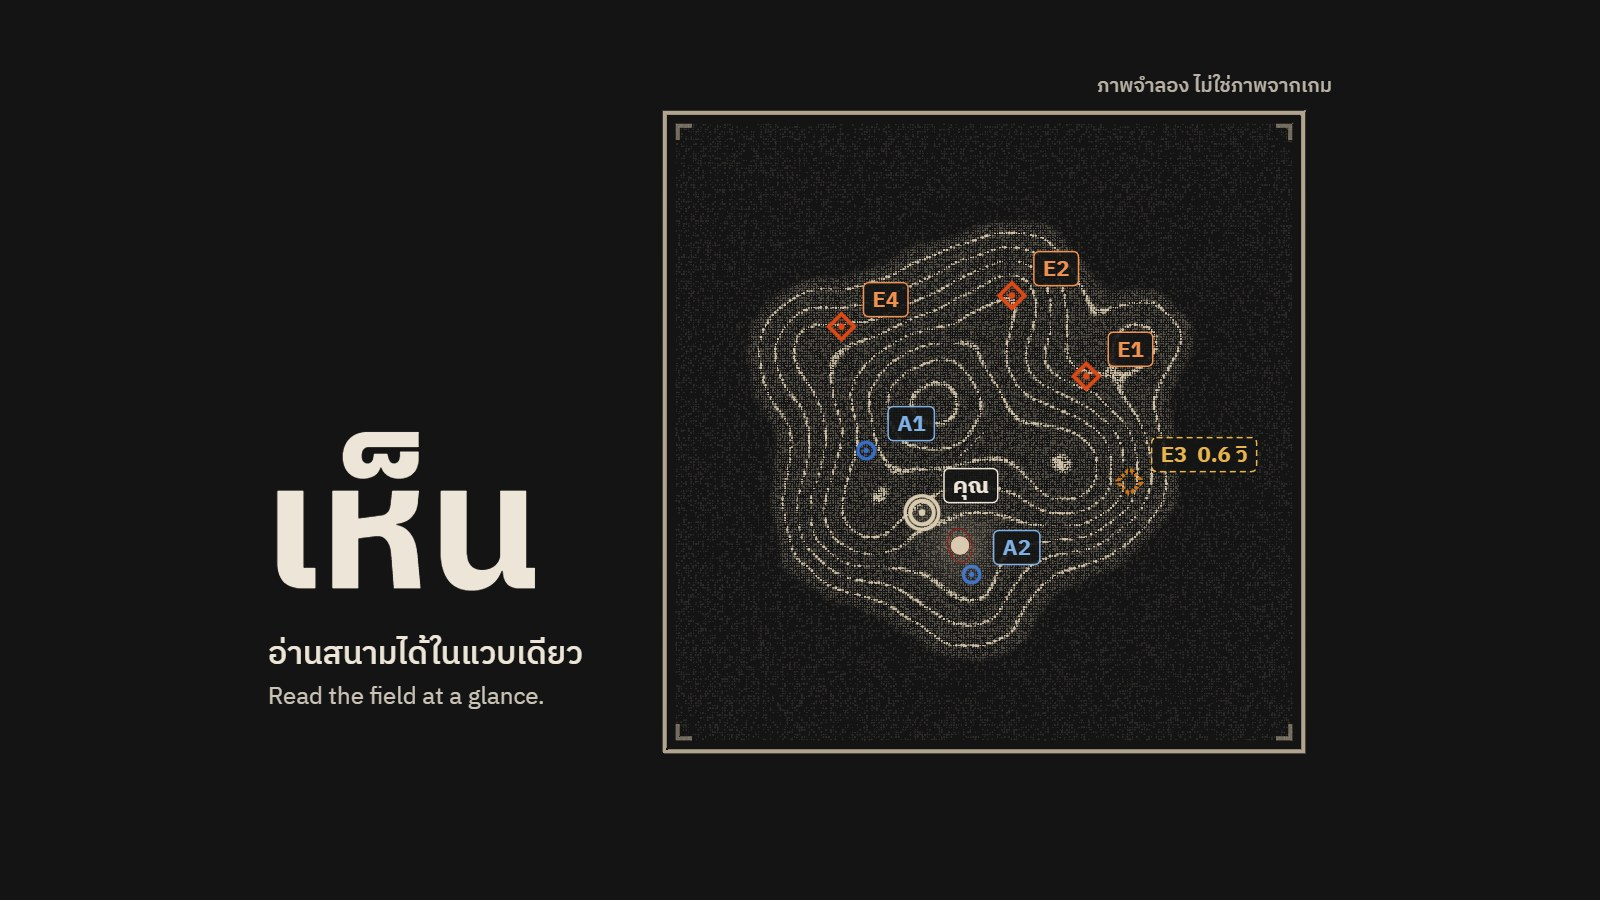
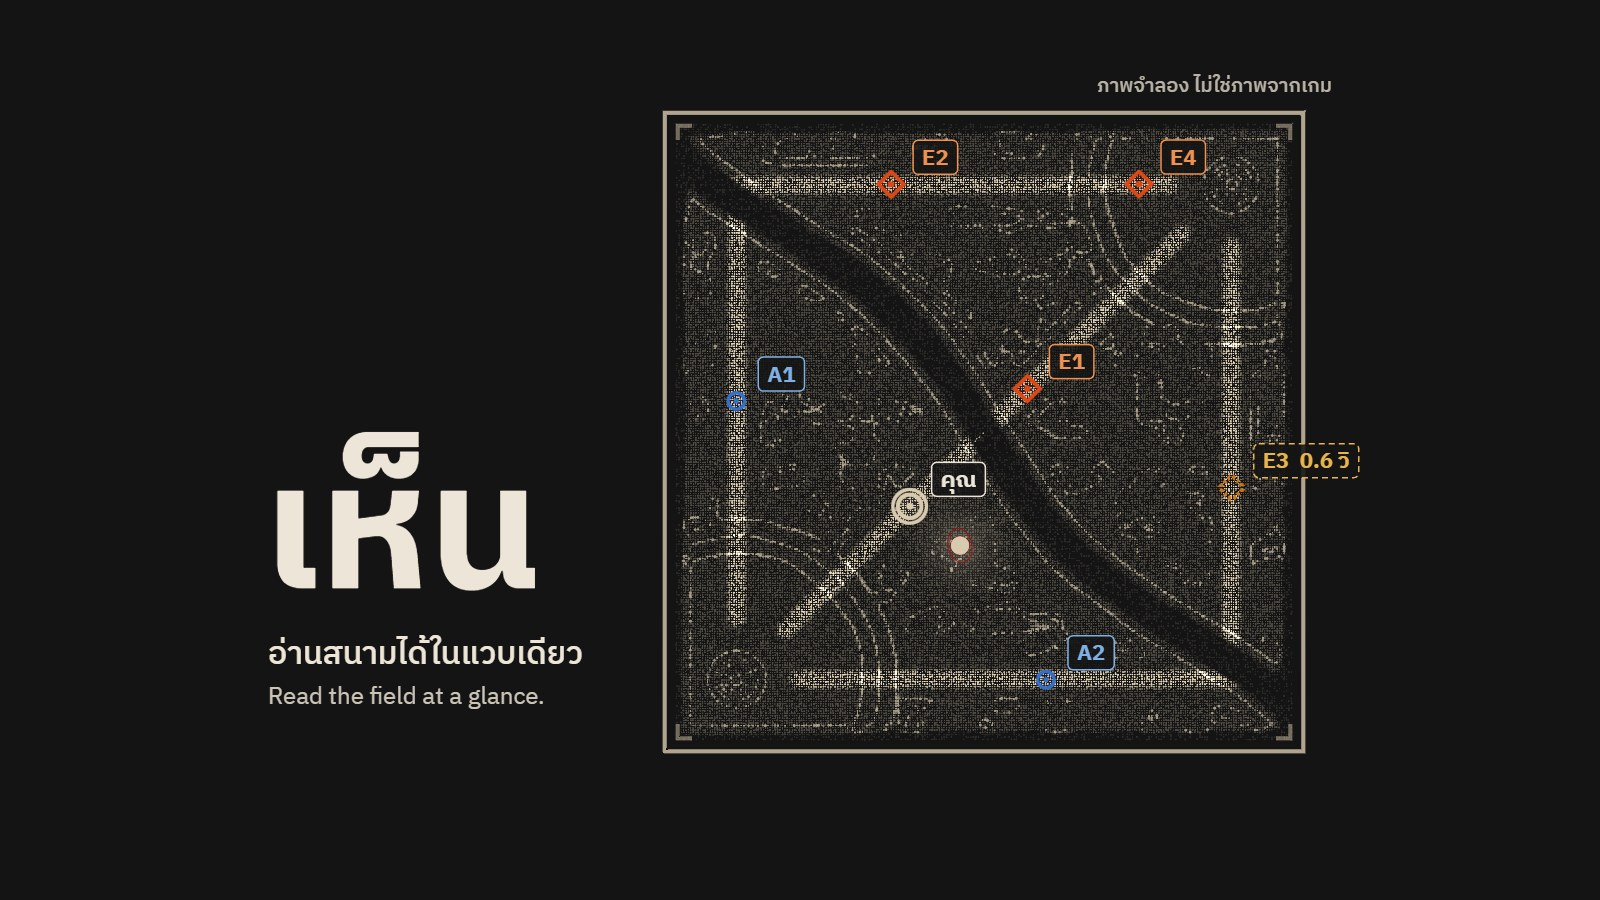
feat(website): battlefield hologram and an In the app features section (#81)
* feat(website): battlefield hologram and an In the app features section

Owner request 2026-11-23. The hero field is now a procedural MOBA-style
battlefield (corner bases on high ground, three lanes, diagonal river, jungle)
drawn in code with no game asset. New section lists the app's features by match
phase (before, during, after). The rendered film must be re-rendered.

* chore(website): re-render the film poster for the battlefield map

---------

Changed region(s): [[0.4062, 0.1244, 0.8438, 0.8089]]

diff --git a/apps/website/js/stage.js b/apps/website/js/stage.js
@@ -1,42 +1,57 @@
 // Kohbor website — the stage.
 // One continuous 3D shot shared by the page (scroll-driven) and the film (time-driven).
 // Deterministic: every frame is a pure function of the params handed to render().
-// Sample geometry only. Nothing here is game data, a game map or a game asset.
+// The field is an original, procedural MOBA-style battlefield (two corner bases on high ground,
+// three lanes, a diagonal river, jungle between the lanes), drawn from code only: no game image,
+// map file or asset is used, and positions are not measured from any game.
 import * as THREE from '../vendor/three.module.min.js';
 
 export const R = 5;          // half-size of the map square in world units
 export const SEA = 0.15;     // height threshold: above = land
 
-// The island is a sum of Gaussian hills so the same height is cheap in GLSL and in JS.
-// [centre x, centre z, amplitude, sigma] in grid space (-1..1).
-export const HILLS = [
-  [-0.18, -0.10, 1.00, 0.34],
-  [0.30, 0.12, 0.78, 0.26],
-  [-0.42, 0.30, 0.52, 0.22],
-  [0.10, -0.46, 0.46, 0.20],
-  [0.52, -0.30, 0.34, 0.16],
-  [-0.05, 0.50, 0.40, 0.24],
-  [-0.60, -0.28, 0.30, 0.18],
+// Battlefield layout in grid space (-1..1); x to the right, z toward the viewer.
+// Home base bottom-left, enemy base top-right, river from top-left to bottom-right.
+// The same field is evaluated in GLSL (points) and in JS (marker heights); keep them in step.
+export const BASES = [[-0.80, 0.80], [0.80, -0.80]];
+export const LANES = [
+  [[-0.80, 0.60], [-0.80, -0.80]], [[-0.80, -0.80], [0.60, -0.80]],   // top lane
+  [[-0.60, 0.80], [0.80, 0.80]], [[0.80, 0.80], [0.80, -0.60]],       // bottom lane
+  [[-0.64, 0.64], [0.64, -0.64]],                                     // middle lane
 ];
 
+const sat = (x) => Math.min(1, Math.max(0, x));
+const smooth = (a, b, x) => { const t = sat((x - a) / (b - a)); return t * t * (3 - 2 * t); };
+function segDist(px, pz, [ax, az], [bx, bz]) {
+  const vx = bx - ax, vz = bz - az, wx = px - ax, wz = pz - az;
+  const t = sat((wx * vx + wz * vz) / (vx * vx + vz * vz));
+  return Math.hypot(wx - vx * t, wz - vz * t);
+}
+export function laneDist(gx, gz) {
+  return Math.min(...LANES.map(([a, b]) => segDist(gx, gz, a, b)));
+}
+export function riverDist(gx, gz) {
+  return Math.abs(gz - gx - 0.10 * Math.sin((gx + gz) * 2.4)) / Math.SQRT2;
+}
+// Height without the jungle canopy (markers stand on lanes and bases, where there is none).
 export function heightAt(gx, gz) {
-  let h = 0;
-  for (const [cx, cz, a, s] of HILLS) {
-    const dx = gx - cx, dz = gz - cz;
-    h += a * Math.exp(-(dx * dx + dz * dz) / (s * s));
+  let h = 0.30;
+  for (const [bx, bz] of BASES) {
+    const d = Math.hypot(gx - bx, gz - bz);
+    h += 0.30 * smooth(0.56, 0.36, d) + 0.55 * Math.exp(-(d * d) / 0.004);
   }
-  return h;
+  h -= 0.24 * Math.exp(-((riverDist(gx, gz) / 0.075) ** 2));
+  return h * smooth(1.0, 0.94, Math.max(Math.abs(gx), Math.abs(gz)));
 }
 
-// Sample markers. Shapes follow the Command Deck rule: ally = ring, enemy = diamond, own = double ring.
+// Sample markers, placed on lanes. Shapes follow the Command Deck rule: ally = ring, enemy = diamond, own = double ring.
 export const MARKERS = [
-  { id: 'own', kind: 'own', g: [-0.20, 0.26] },
-  { id: 'A1', kind: 'ally', g: [-0.38, 0.06] },
-  { id: 'A2', kind: 'ally', g: [-0.04, 0.46] },
-  { id: 'E1', kind: 'enemy', g: [0.33, -0.18] },
-  { id: 'E2', kind: 'enemy', g: [0.09, -0.44] },
-  { id: 'E3', kind: 'enemy', g: [0.47, 0.16] },
-  { id: 'E4', kind: 'enemy', g: [-0.46, -0.34] },
+  { id: 'own', kind: 'own', g: [-0.24, 0.24] },
+  { id: 'A1', kind: 'ally', g: [-0.80, -0.10] },
+  { id: 'A2', kind: 'ally', g: [0.20, 0.80] },
+  { id: 'E1', kind: 'enemy', g: [0.14, -0.14] },
+  { id: 'E2', kind: 'enemy', g: [-0.30, -0.80] },
+  { id: 'E3', kind: 'enemy', g: [0.80, 0.18] },
+  { id: 'E4', kind: 'enemy', g: [0.50, -0.80] },
 ];
 
 const hex = (h) => new THREE.Color(h);
@@ -57,7 +72,6 @@ const POINT_VERT = /* glsl */`
   uniform float uTime, uShape, uH, uPx, uSize, uIntro, uStale, uLost, uDim, uVoice, uOrbY, uGridN;
   uniform vec3 uAmp;
   uniform vec3 uPointer;            // local x, local z, strength
-  uniform vec4 uHills[7];
   attribute vec2 aGrid;
   attribute vec4 aRand;
   varying float vAlpha;
@@ -71,30 +85,51 @@ const POINT_VERT = /* glsl */`
     f = f * f * (3.0 - 2.0 * f);
     return mix(mix(hash(i), hash(i + vec2(1, 0)), f.x), mix(hash(i + vec2(0, 1)), hash(i + vec2(1, 1)), f.x), f.y);
   }
-  float heightAt(vec2 g) {
+  // Same battlefield as BASES / LANES / heightAt() in JS.
+  float segDist(vec2 p, vec2 a, vec2 b) {
+    vec2 pa = p - a, ba = b - a;
+    return length(pa - ba * clamp(dot(pa, ba) / dot(ba, ba), 0.0, 1.0));
+  }
+  float laneDist(vec2 g) {
+    float d = segDist(g, vec2(-0.80, 0.60), vec2(-0.80, -0.80));
+    d = min(d, segDist(g, vec2(-0.80, -0.80), vec2(0.60, -0.80)));
+    d = min(d, segDist(g, vec2(-0.60, 0.80), vec2(0.80, 0.80)));
+    d = min(d, segDist(g, vec2(0.80, 0.80), vec2(0.80, -0.60)));
+    return min(d, segDist(g, vec2(-0.64, 0.64), vec2(0.64, -0.64)));
+  }
+  float riverDist(vec2 g) { return abs(g.y - g.x - 0.10 * sin((g.x + g.y) * 2.4)) * 0.70710678; }
+  float baseField(vec2 g) {
     float h = 0.0;
-    for (int i = 0; i < 7; i++) {
-      vec2 d = g - uHills[i].xy;
-      h += uHills[i].z * exp(-dot(d, d) / (uHills[i].w * uHills[i].w));
-    }
+    vec2 b0 = vec2(-0.80, 0.80), b1 = vec2(0.80, -0.80);
+    float d0 = length(g - b0), d1 = length(g - b1);
+    h += 0.30 * smoothstep(0.56, 0.36, d0) + 0.55 * exp(-d0 * d0 / 0.004);
+    h += 0.30 * smoothstep(0.56, 0.36, d1) + 0.55 * exp(-d1 * d1 / 0.004);
     return h;
   }
 
   void main() {
     vec2 g = aGrid;
-    float h = heightAt(g) + (vnoise(g * 9.0) - 0.5) * 0.05;
+    float lane = laneDist(g), river = riverDist(g);
+    float bases = baseField(g);
+    float edge = smoothstep(1.0, 0.94, max(abs(g.x), abs(g.y)));
+    // jungle canopy: clumps of trees away from lanes, river and bases
+    float clear = smoothstep(0.05, 0.11, lane) * smoothstep(0.09, 0.16, river) * (1.0 - smoothstep(0.02, 0.12, bases));
+    float trees = smoothstep(0.48, 0.78, vnoise(g * 13.0)) * clear;
+    float h = (0.30 + bases + trees * 0.20 - 0.24 * exp(-pow(river / 0.075, 2.0))) * edge
+            + (vnoise(g * 9.0) - 0.5) * 0.02;
     float land = smoothstep(${(SEA - 0.02).toFixed(2)}, ${(SEA + 0.02).toFixed(2)}, h);
     float elev = max(h - ${SEA.toFixed(2)}, 0.0);
     float cl = abs(fract(h * 9.0 + 0.5) - 0.5);
     float contour = (1.0 - smoothstep(0.03, 0.09, cl)) * land;
+    float laneLine = (1.0 - smoothstep(0.016, 0.04, lane)) * land;
     float seaKeep = step(0.55, aRand.w);
 
-    // 0 island
+    // 0 battlefield relief
     vec3 p0 = vec3(g.x * R, elev * uH * 1.7 + (1.0 - land) * sin(g.x * 9.0 + g.y * 7.0 + uTime * 0.6) * 0.025, g.y * R);
-    float a0 = mix(0.16 * seaKeep, 0.46, land) + contour * 0.5;
+    float a0 = mix(0.16 * seaKeep, 0.40, land) + contour * 0.35 + laneLine * 0.6 + trees * 0.12;
     // 1 flat map
     vec3 p1 = vec3(g.x * R, elev * 0.08, g.y * R);
-    float a1 = mix(0.13 * seaKeep, 0.34, land) + contour * 0.62;
+    float a1 = mix(0.13 * seaKeep, 0.30, land) + contour * 0.45 + laneLine * 0.75;
     // 2 rings: three bands, one per mixer channel
     float ringT = g.y * 0.5 + 0.5;
     float ringI = floor(ringT * 30.0);
@@ -303,7 +338,6 @@ export function createStage(canvas, { density = 256, antialias = true } = {}) {
     uTime: { value: 0 }, uShape: { value: 0 }, uH: { value: 1 }, uPx: { value: 1 }, uSize: { value: 1 }, uIntro: { value: 1 },
     uStale: { value: 0 }, uLost: { value: 0 }, uDim: { value: 1 }, uVoice: { value: 0 }, uOrbY: { value: 1.7 }, uGridN: { value: N },
     uAmp: { value: new THREE.Vector3(0.5, 0.5, 0.5) }, uPointer: { value: new THREE.Vector3(0, 0, 0) },
-    uHills: { value: HILLS.map((h) => new THREE.Vector4(...h)) },
     uInkTop: { value: new THREE.Color() }, uInkBot: { value: new THREE.Color() },
     uTintTop: { value: new THREE.Color() }, uTintBot: { value: new THREE.Color() },
     uGainTop: { value: 1 }, uGainBot: { value: 1 }, uSplit: split,

diff --git a/apps/website/index.html b/apps/website/index.html
@@ -46,6 +46,7 @@
     <a href="#honest"><span class="th">ไม่รู้</span><span class="en">Unknown</span></a>
     <a href="#hear"><span class="th">ฟัง</span><span class="en">Hear</span></a>
     <a href="#ask"><span class="th">ถาม</span><span class="en">Ask</span></a>
+    <a href="#features"><span class="th">ในแอป</span><span class="en">In the app</span></a>
     <a href="#yours"><span class="th">ของคุณ</span><span class="en">Yours</span></a>
     <a href="#bar"><span class="th">เกณฑ์</span><span class="en">The bar</span></a>  </nav>
   <div class="top-lang" role="group" aria-label="ภาษา / Language">
@@ -74,7 +75,7 @@
       </p>
     </div>
     <p class="hero-hint" aria-hidden="true">
-      <span class="th">ขยับเมาส์เหนือเกาะ ลากเพื่อหมุน</span><span class="en">Move over the island. Drag to turn it.</span>
+      <span class="th">ขยับเมาส์เหนือแผนที่ ลากเพื่อหมุน</span><span class="en">Move over the map. Drag to turn it.</span>
     </p>
   </div>
 </section>
@@ -237,6 +238,66 @@
       </div>
       <div class="map-slot" data-slot></div>
     </div>
+  </div>
+</section>
+
+<!-- ───────────── In the app ───────────── -->
+<section id="features" class="room-b" data-room="b">
+  <div class="flow feat-in">
+    <div class="feat-head">
+      <h2 class="claim"><span class="th">ในแอปมีอะไรบ้าง</span><span class="en">What is in the app</span></h2>
+      <p class="lead"><span class="th">เรียงตามช่วงของแมตช์ ก่อนเริ่ม ระหว่างเล่น และหลังจบ</span><span class="en">In the order of a match: before it starts, while you play, and after it ends.</span></p>
+    </div>
+    <ol class="phases">
+      <li class="phase">
+        <p class="phase-tag"><b class="mono">01</b><span class="th">ก่อนเริ่ม</span><span class="en">Before</span></p>
+        <ul class="feats">
+          <li class="feat">
+            <h3><span class="th">ดราฟต์</span><span class="en">Draft</span></h3>
+            <p><span class="th">กระดานดราฟต์แสดงว่าแต่ละฝั่งเลือกและแบนอะไรไปแล้ว พร้อมคอลัมน์ข้างจอที่ช่วยเสนอฮีโร่ระหว่างที่คุณกำลังเลือก</span><span class="en">A draft board shows what each side has picked and banned, with a side column that suggests heroes while you choose.</span></p>
+          </li>
+        </ul>
+      </li>
+      <li class="phase">
+        <p class="phase-tag"><b class="mono">02</b><span class="th">ระหว่างเล่น</span><span class="en">During</span></p>
+        <ul class="feats">
+          <li class="feat">
+            <h3><span class="th">สด</span><span class="en">Live</span></h3>
+            <p><span class="th">อ่านมินิแมปบนจอของคุณ บอกว่าศัตรูคนไหนหายจากแผนที่และหายไปนานเท่าไร มีมาตรวัดความเสี่ยง ทรัพยากรของคุณ และนับถอยหลังเป้าหมายสำคัญบนแผนที่</span><span class="en">Reads the minimap on your screen and tells you which enemies are missing and for how long, with a risk meter, your resources and countdowns for key map objectives.</span></p>
+          </li>
+          <li class="feat">
+            <h3><span class="th">จอที่สอง</span><span class="en">Second monitor</span></h3>
+            <p><span class="th">ย้ายข้อมูลสดไปไว้บนจออีกจอ ดูได้ตลอดโดยไม่ต้องสลับหน้าต่างออกจากเกม</span><span class="en">Move the live view to another screen and keep an eye on it without leaving the game window.</span></p>
+          </li>
+          <li class="feat">
+            <h3><span class="th">แพ็กเสียง</span><span class="en">Sound packs</span></h3>
+            <p><span class="th">เลือกเสียงผู้ประกาศที่ชอบ และเลือกเสียงแยกได้ทีละเหตุการณ์ ทุกแพ็กผ่านการตรวจสอบก่อนติดตั้ง</span><span class="en">Pick the announcer you like and choose the sound for each event. Every pack is verified before it installs.</span></p>
+          </li>
+          <li class="feat">
+            <h3><span class="th">ออร์บข้างจอ</span><span class="en">Edge orb</span></h3>
+            <p><span class="th">ปุ่มกลมเล็ก ๆ ที่ขอบจอ กดแล้วปรับเสียงเกม ผู้ประกาศ และเพลงได้ทันที โดยไม่ต้องออกจากเกม</span><span class="en">A small orb at the edge of the screen. Click it to set game, announcer and music volume without leaving the game.</span></p>
+          </li>
+        </ul>
+      </li>
+      <li class="phase">
+        <p class="phase-tag"><b class="mono">03</b><span class="th">หลังจบ</span><span class="en">After</span></p>
+        <ul class="feats">
+          <li class="feat">
+            <h3><span class="th">รีเพลย์</span><span class="en">Replay</span></h3>
+            <p><span class="th">เปิดแมตช์ที่เล่นจบแล้วขึ้นมาดูย้อนหลังในแอป ไล่ดูทีละช่วงของเกมได้</span><span class="en">Open a finished match in the app and step back through it, moment by moment.</span></p>
+          </li>
+          <li class="feat">
+            <h3><span class="th">วิเคราะห์แมตช์</span><span class="en">Match analysis</span></h3>
+            <p><span class="th">ช่วยชี้จังหวะที่คุณตายและสิ่งที่เกิดขึ้นก่อนหน้านั้น ประมวลผลในเครื่องของคุณ ไม่ได้ส่งข้อมูลขึ้นเซิร์ฟเวอร์</span><span class="en">Points out the moments you died and what led up to them. It runs on your machine; nothing is sent to a server.</span></p>
+          </li>
+          <li class="feat">
+            <h3><span class="th">ประวัติและสรุปแมตช์</span><span class="en">History and recap</span></h3>
+            <p><span class="th">ดูรายการแมตช์ที่ผ่านมา และสรุปเหตุการณ์สำคัญของแต่ละแมตช์</span><span class="en">See your past matches and a recap of the key events in each one.</span></p>
+          </li>
+        </ul>
+      </li>
+    </ol>
+    <p class="feat-note"><span class="th">เกาะเบาะยังอยู่ในรุ่นทดสอบ บางอย่างยังปรับปรุงอยู่</span><span class="en">Kohbor is still in testing, and some of this is still being refined.</span></p>
   </div>
 </section>
 

diff --git a/apps/website/js/main.js b/apps/website/js/main.js
@@ -36,7 +36,7 @@ const labels = $$('.lb').map((el) => ({ el, id: el.dataset.m, o: -1 }));
 const plate = $('#plate'), plateText = $('#plateText');
 const navLinks = $$('.top-nav a');
 const topEl = $('#top');
-const NAV_FOR = { see: '#see', honest: '#honest', hear: '#hear', ask: '#ask', yours: '#yours', bar: '#bar' };
+const NAV_FOR = { see: '#see', honest: '#honest', hear: '#hear', ask: '#ask', features: '#features', yours: '#yours', bar: '#bar' };
 let topRoom = 'c';
 
 let vw = 1, vh = 1, cw = 1, ch = 1, cl = 0, ct = 0, mobile = false;
@@ -104,16 +104,17 @@ function topDown(id, tilt) {
 }
 function buildKeys() {
   const m = mobile;
-  K.hero = { ...BASE, height: 1.2, shift: m ? [0, -0.2] : [0.25, 0.05], orbA: 1, ripple: 1, follow: 1 };
+  K.hero = { ...BASE, cam: [0, 12.5, 12.5], look: [0, 0, 0.4], height: 1.2, shift: m ? [0, -0.2] : [0.25, 0.05], orbA: 1, ripple: 1, follow: 1 };
   K.why = { ...BASE, cam: [-8.5, 2.1, 9], look: [0, 0.9, 0], shift: m ? [0, -0.12] : [0.31, 0.2], height: 1.2, dim: 0.34, ripple: 0.5, orb: [0.4, 2.2, 0.6], orbA: 0 };
   K.see = { ...BASE, ...topDown('see', 0), shift: slotShift('see'), shape: 1, px: m ? 1.5 : 1.9, rotAmt: 0, markers: 1, frame: 1, orb: [own.g[0] * R + 0.62, 0.5, own.g[1] * R + 0.5], orbA: 1, orbS: 0.75, ripple: 0.55 };
   K.honest = { ...BASE, ...topDown('honest', 0.2), shift: slotShift('honest'), shape: 1, px: m ? 1.5 : 1.9, rotAmt: 0, markers: 1, frame: 1, orb: [own.g[0] * R + 0.62, 0.5, own.g[1] * R + 0.5], orbA: 0, orbS: 0.75, ripple: 0.2 };
   K.hear = { ...BASE, cam: [0, 6.8, 14], look: [0, 0, 0], shift: slotShift('hear', m ? 1 : 0.4), shape: 2, px: 2.1, rotAmt: 0.5, orb: [0, 0.5, 0], orbA: 1, orbS: 1.1 };
   K.ask = { ...BASE, cam: [0, 2.3, m ? 6.4 : 7.4], look: [0, 1.7, 0], shift: slotShift('ask'), shape: 3, px: 2.1, orb: [0, 1.7, 0], orbA: 1, orbS: 1.3 };
-  K.yours = { ...BASE, cam: [0, 2.6, 9.5], look: [0, 0.1, -3], shape: 4, dim: 0.9, px: 2.3, rotAmt: 0.3, ripple: 0.6, orb: [0, 1.7, 0] };
+  K.features = { ...BASE, cam: [0, 3.4, 11], look: [0, -0.2, -2], shape: 4, dim: 0.3, px: 2.3, rotAmt: 0.3, ripple: 0.4, orb: [0, 1.7, 0] };
+  K.yours ={ ...BASE, cam: [0, 2.6, 9.5], look: [0, 0.1, -3], shape: 4, dim: 0.9, px: 2.3, rotAmt: 0.3, ripple: 0.6, orb: [0, 1.7, 0] };
   K.film = { ...K.yours, dim: 0, ripple: 0 };
   K.bar = { ...BASE, cam: [0, 3.4, 11], look: [0, -0.2, -2], shape: 4, dim: 0.34, px: 2.3, rotAmt: 0.3, ripple: 0.4, orb: [0, 1.7, 0] };
-  K.end = { ...BASE, cam: [0, 5.2, 14.5], look: [0, 0.9, 0], height: 1.2, shift: m ? [0, 0.16] : [0.26, 0.0], shape: 5, orbA: 1, ripple: 1, follow: 1 };
+  K.end = { ...BASE, cam: [0, 9.0, 11.5], look: [0, 0.9, 0], height: 1.2, shift: m ? [0, 0.16] : [0.26, 0.0], shape: 5, orbA: 1, ripple: 1, follow: 1 };
 }
 function mix(a, b, t) {
   const o = {};

diff --git a/apps/website/css/site.css b/apps/website/css/site.css
@@ -347,6 +347,21 @@ html[data-lang="en"] .no-word { line-height: 1; letter-spacing: -0.05em; margin:
 #filmToggle .film-play, #filmToggle[aria-pressed="true"] .film-pause { display: none; }
 #filmToggle[aria-pressed="true"] .film-play { display: inline; }
 
+/* In the app: phases of a match, left to right */
+.feat-in { padding: clamp(80px, 16vh, 200px) var(--pad) clamp(64px, 12vh, 150px); display: grid; gap: clamp(36px, 7vh, 80px); }
+.feat-head { display: grid; gap: 14px; }
+.feat-head .lead { color: var(--ink2); max-width: 32em; }
+.phases { display: grid; grid-template-columns: minmax(0, 0.8fr) minmax(0, 1.6fr) minmax(0, 1.2fr); gap: var(--pad); }
+.phase { display: grid; gap: 22px; align-content: start; padding-top: 18px; border-top: 2px solid var(--ink); }
+.phase-tag { display: flex; align-items: baseline; gap: 12px; font-weight: 600; font-size: 1.125rem; }
+.phase-tag b { font-size: 0.875rem; font-weight: 500; color: var(--red); }
+.feats { display: grid; gap: 22px; }
+.phases > .phase:nth-child(2) .feats { grid-template-columns: repeat(2, minmax(0, 1fr)); }
+.feat { display: grid; gap: 6px; align-content: start; padding-top: 12px; border-top: 1px dashed var(--line-strong); }
+.feat h3 { font-size: 1.25rem; font-weight: 600; line-height: 1.3; }
+.feat p { color: var(--ink2); max-width: 26em; }
+.feat-note { color: var(--muted); font-size: 0.9375rem; }
+
 /* The bar */
 .bar-in { padding: clamp(80px, 16vh, 200px) var(--pad) clamp(64px, 12vh, 150px); display: grid; gap: clamp(36px, 7vh, 88px); }
 .gates { display: grid; grid-template-columns: repeat(3, minmax(0, 1fr)); gap: var(--pad); }
@@ -402,6 +417,8 @@ html[data-lang="en"] .end-h { line-height: 1; letter-spacing: -0.04em; }
   .chap-see { grid-template-columns: minmax(0, 5fr) minmax(0, 5fr) minmax(230px, 3fr); }
   .chap-hear { grid-template-columns: minmax(0, 1fr) minmax(280px, 380px); }
   .chap-hear .hear-side { grid-column: 2; }
+  .phases { grid-template-columns: minmax(0, 1fr); }
+  .feats { grid-template-columns: repeat(2, minmax(0, 1fr)); }
 }
 
 @media (max-width: 860px) {
@@ -450,7 +467,7 @@ html[data-lang="en"] .end-h { line-height: 1; letter-spacing: -0.04em; }
   .no-list li { font-size: clamp(1.35rem, 6.4vw, 2.4rem); }
 
   .film-frame { clip-path: inset(calc((1 - var(--f, 0)) * 26%) calc((1 - var(--f, 0)) * 6%) round calc((1 - var(--f, 0)) * 12px)); }
-  .gates, .bar-notes, .foot { grid-template-columns: minmax(0, 1fr); }
+  .gates, .bar-notes, .foot, .phases, .feats, .phases > .phase:nth-child(2) .feats { grid-template-columns: minmax(0, 1fr); }
   .end-in { padding-top: calc(var(--bar) + 24px); }
 }
 

diff --git a/apps/website/README.md b/apps/website/README.md
@@ -62,7 +62,7 @@ only: it is not an approval of the design or copy, and it does not set a domain 
    scene flips exactly on the line where two rooms meet.
 3. **Line style is meaning**, as in the app: solid = seen/real, dashed = missing/not yet real, hatched = stale, double ring = you.
 4. **One continuous shot.** One point field becomes an island, a flat map, three mixer bands, a voice sphere and a calm sea.
-   "Koh" also reads as island; the island is original geometry (a sum of Gaussian hills), not a game map.
+   Owner change 2026-11-23: the island became a MOBA-style battlefield (two corner bases on high ground, three lanes, a diagonal river, jungle between the lanes). It is drawn procedurally in `js/stage.js`; no game image, map file or asset is used. The rendered film in `assets/film/` predates this change and must be re-rendered with `studio.html`.
 5. **A landing page, not the app.** A thin top header (brand, chapter links, language) that takes the ink of the room under it,
    and a 2 px scroll line. The first draft framed the page with the app's two side rails and a frame-rate badge; the owner
    rejected that on 2026-11-21 ("a landing page is not an application"), so the app shell is not borrowed anywhere on the page.
